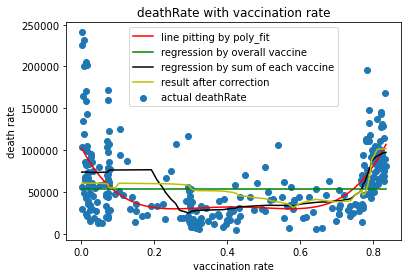
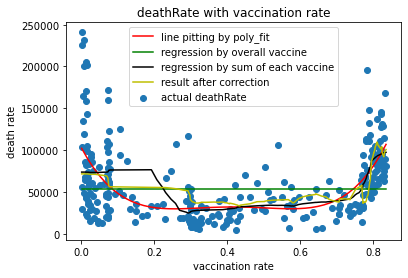
Add files via upload

Changed region(s): [[0.4706, 0.6043, 0.9118, 0.7482], [0.2059, 0.6043, 0.5588, 0.7194], [0.9118, 0.518, 0.9706, 0.5755]]

diff --git a/README.md b/README.md
@@ -127,7 +127,7 @@
          <img src="/data/보정후그래프.png"><br>
          그 후 한 종류의 백신으로 전체백신접종률을 달성하게 된다면 사망률이 어떻게 될 것인지를 분석해보았습니다.
          <img src="/data/끝값.png"><img src="/data/백신2.png"><img src="/data/끝값결과.png"><br>
-         이를 보듯이 아스트라제네카와 화이자 백신은 음의 값으로, 모두 이 백신들로만 구성했을 경우 사망률이 0에 가깝게 나올것이며, 모더나만 맞을을 시 사망률이 1퍼센트에 근접할 것으로 보입니다.
+         결과에서 나오듯 화이자는 음의 값으로 사망률이 0에 가까울 것이고, AZ,모더나 순으로 아스트라제네카는 1퍼센트 미만, 모더나는 1퍼센트 2퍼센트 미만의 사망률을 보일것으로 보이며, 화이자, 아스트라제네카, 모더나 순으로 결과가 좋습니다.
          <h1>보완할 점</h1>
           사실 커뮤니티에 대한 감염병 분석으로는 많은 외부요인들이 있을 수 있습니다. 예를 들면 국민 거리두기  피로도라던가 의료 인프라 현황, 집회, 백신 추가 접종 여부 등이 있습니다. 이러한 변수들까지 추가해서 컨트롤한다면 더욱 정확한 예측과 분석이 될 수 있습니다.
          <h1>분석 결론</h1>
